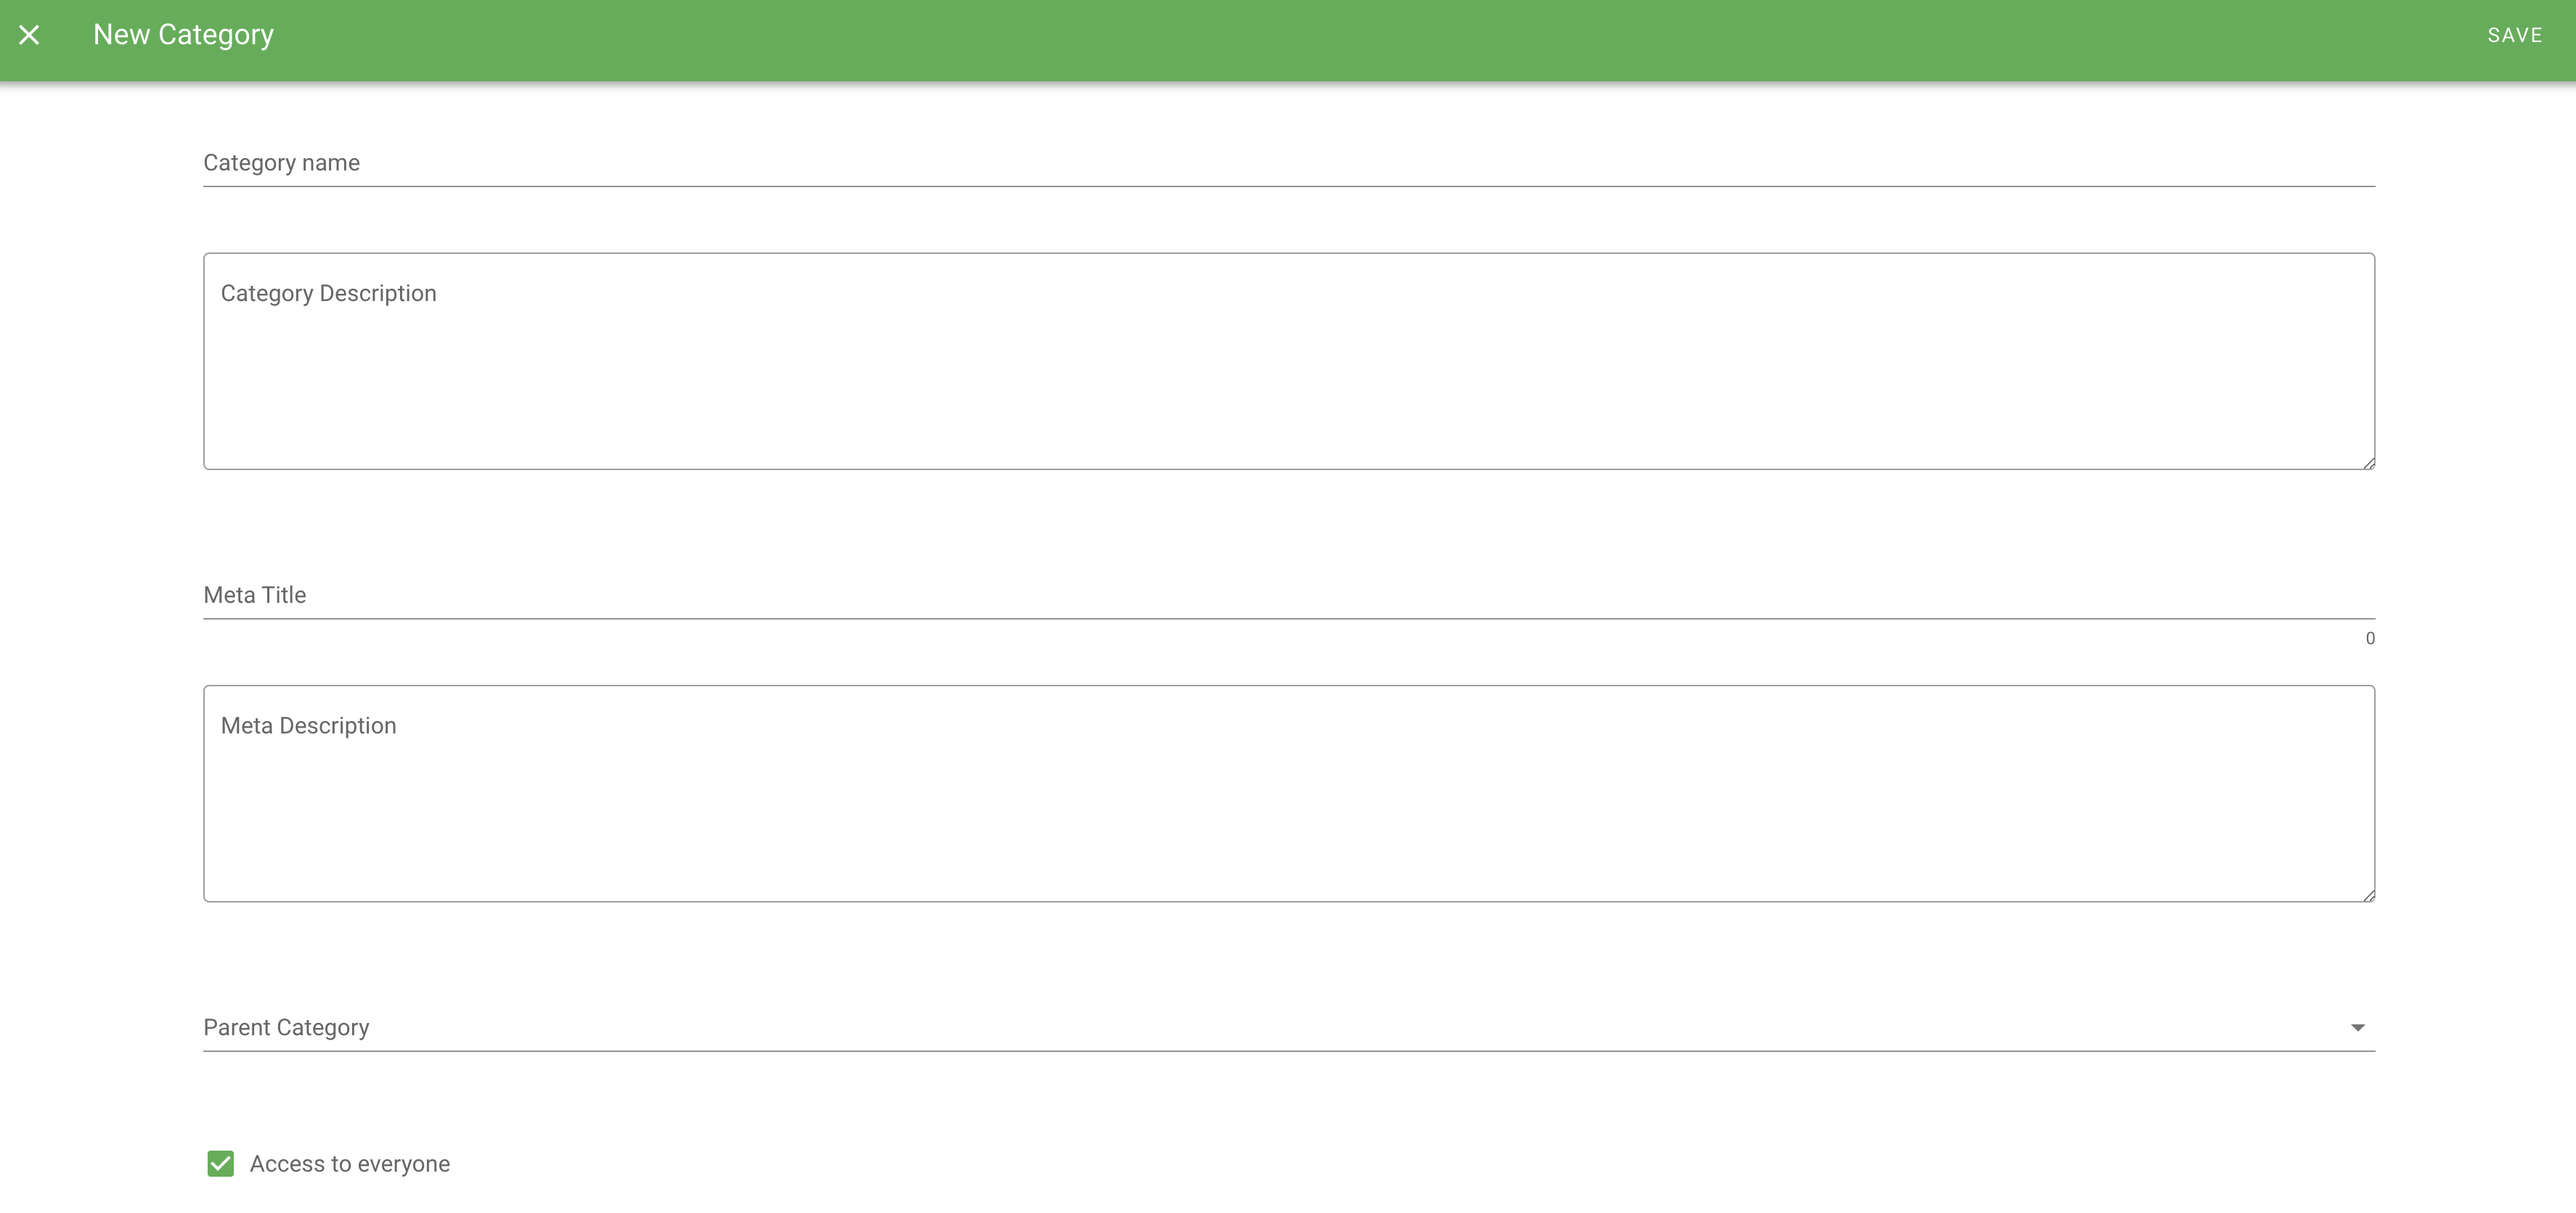
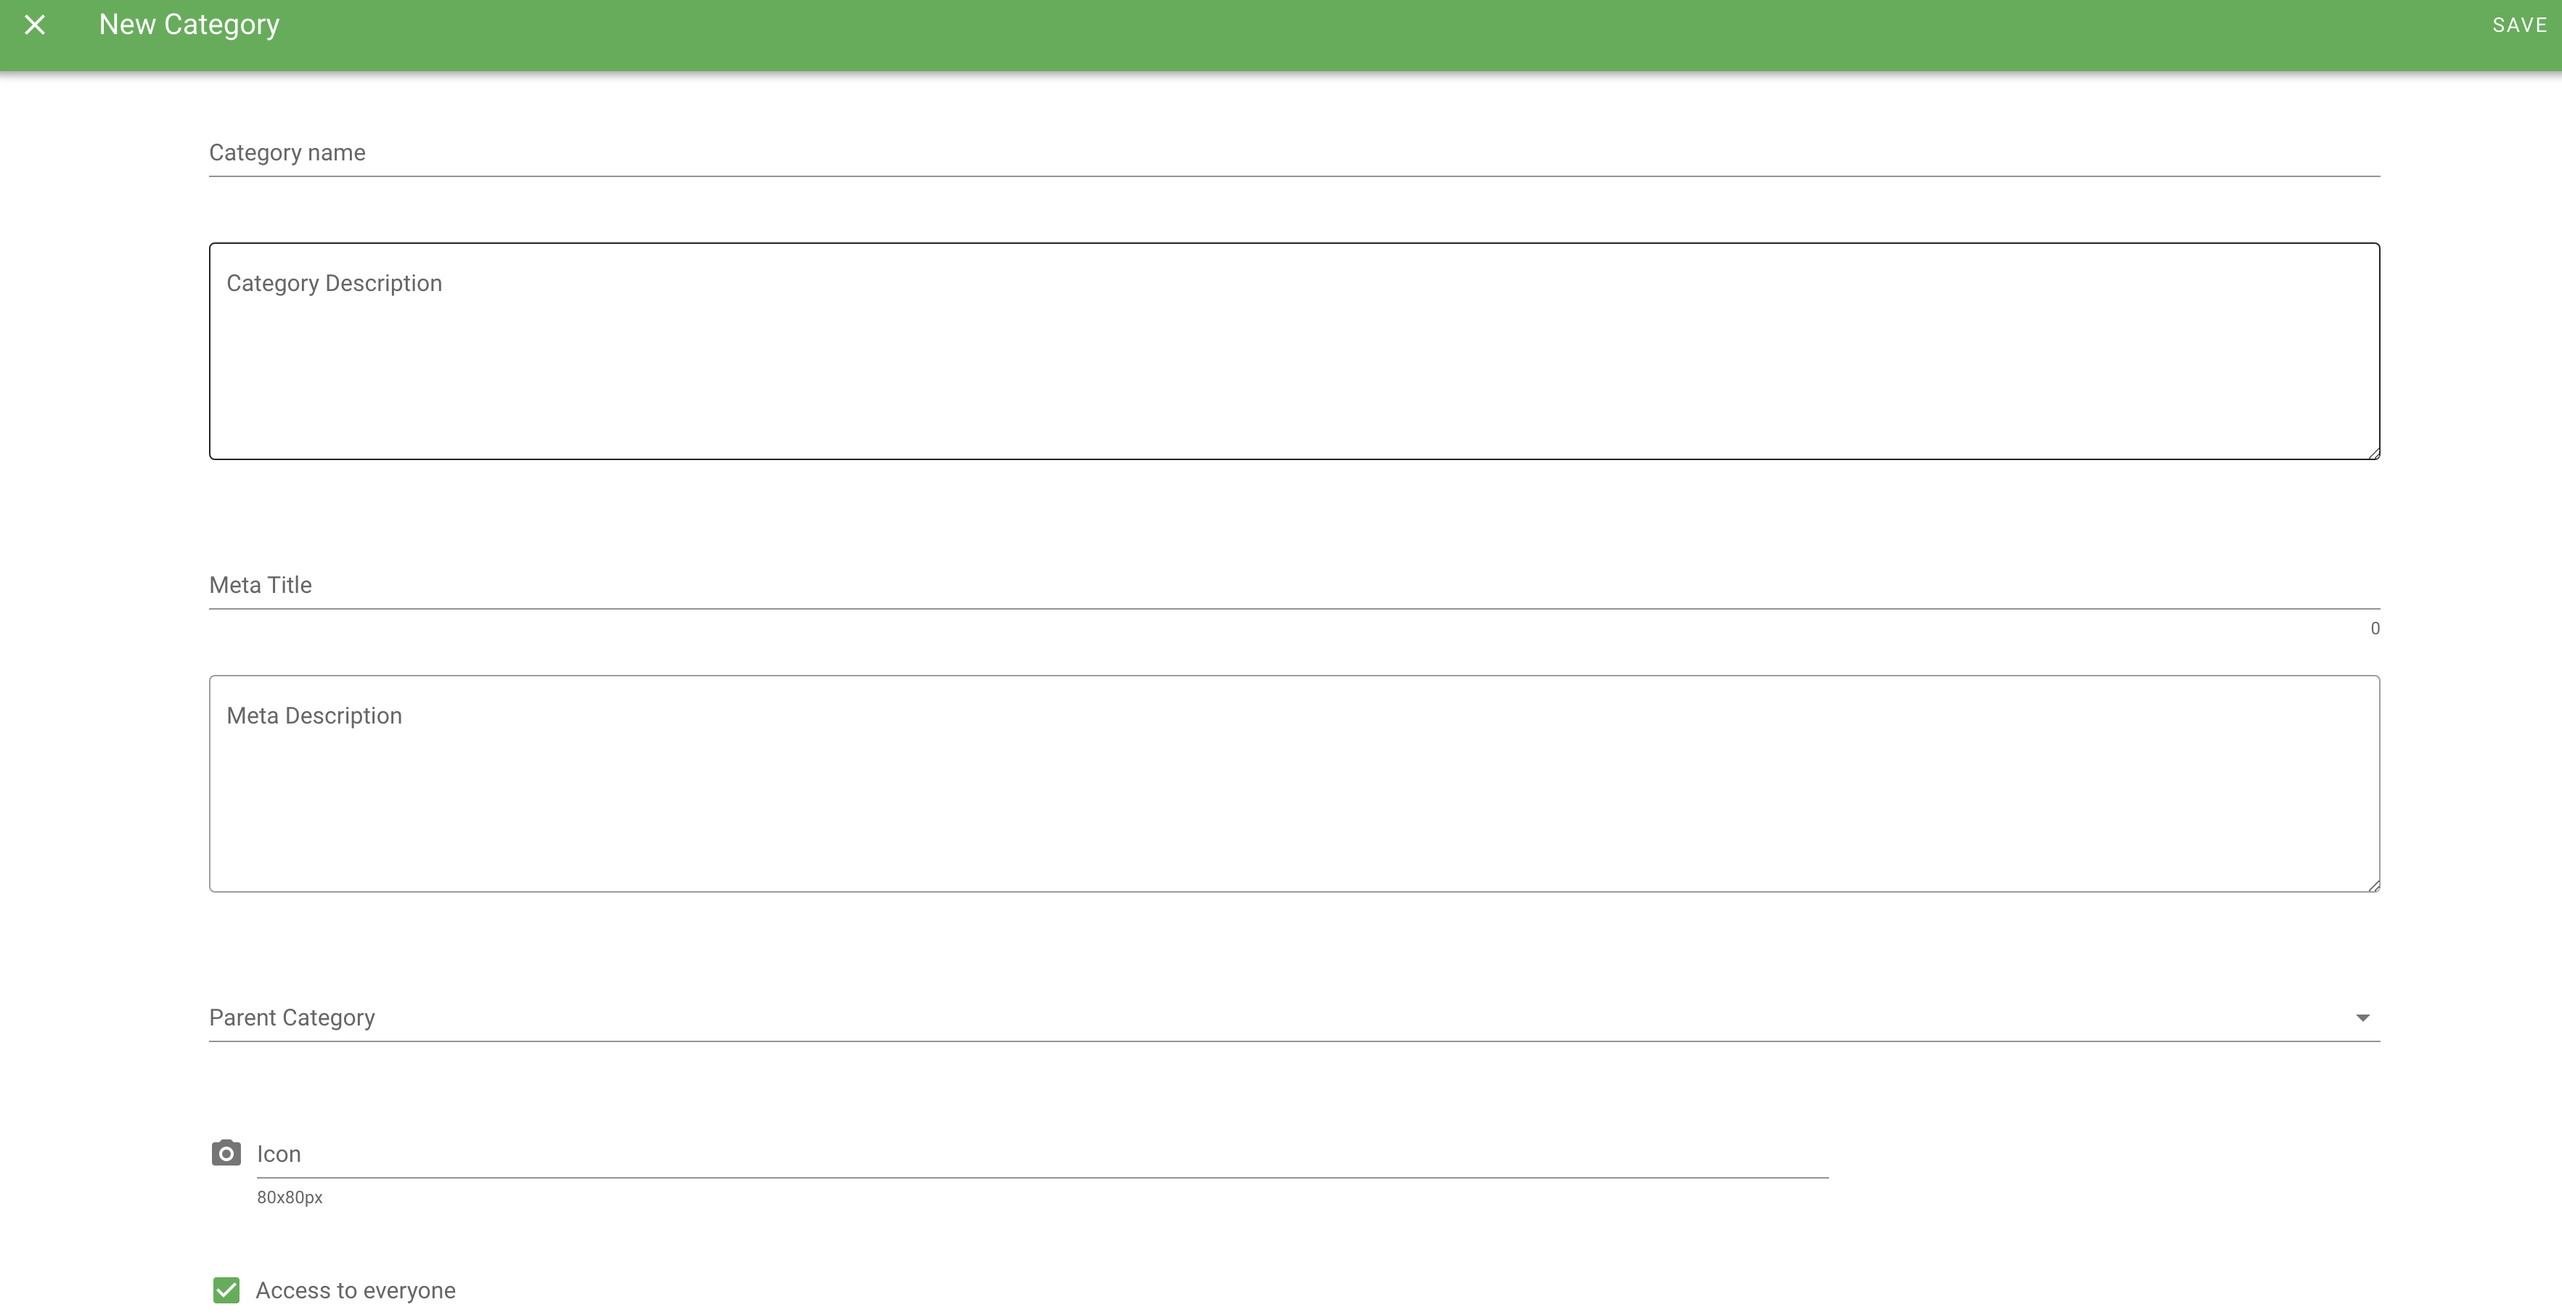
Added text in pages

diff --git a/docs/admin/categories.md b/docs/admin/categories.md
@@ -20,6 +20,7 @@ To create a category, click the "New Category" and fill out form:
 - Meta title. It appears in the browser's title bar and is also used by search engines as the title of a webpage's search result.
 - Meta description. It appears in the search engine results pages (SERPs) below the title tag and the URL of the page.The purpose of a meta description is to provide a concise and informative preview of what the user can expect to find on the page.
 - Parent category. We create the main category, which means we do not specify anything.
+- Icon. Uploading an icon for a category. Icon size should be 80px x 80px.
 
 We do not touch the "Access to everyone" checkbox if we want all users to see it.
 
@@ -36,6 +37,7 @@ To create a category, click the "New Category" and fill out form:
 - Meta title. It appears in the browser's title bar and is also used by search engines as the title of a webpage's search result.
 - Meta description. It appears in the search engine results pages (SERPs) below the title tag and the URL of the page.The purpose of a meta description is to provide a concise and informative preview of what the user can expect to find on the page.
 - Parent category. Choose parent category for subcategories.
+- Icon. Uploading an icon for a category. Icon size should be 80px x 80px.
 
 We do not touch the "Access to everyone" checkbox if we want all users to see it.
 

diff --git a/docs/admin/translation.md b/docs/admin/translation.md
@@ -2,3 +2,55 @@
 sidebar_position: 18
 slug: "/admin/translation"
 ---
+
+# Translation
+
+You can change the text on the site to make it more understandable and user-friendly.
+
+![translation](/img/translation.png)
+
+- There were no results for your search
+
+![translation2](/img/translation2.png)
+
+- Account
+
+![translation3](/img/translation3.png)
+
+- Follow us
+
+![translation4](/img/translation4.png)
+
+- About us
+
+![translation5](/img/translation5.png)
+
+- Nice to see you again
+
+![translation3](/img/translation3.png)
+
+- Menu
+
+![translation6](/img/translation6.png)
+
+- Search
+
+![translation7](/img/translation7.png)
+
+- Important topic
+
+![translation8](/img/translation8.png)
+
+- Topic closed
+
+![translation8](/img/translation8.png)
+
+- Contact us
+
+![translation5](/img/translation5.png)
+
+- Page not found
+
+![translation9](/img/translation9.png)
+
+- Error happened

diff --git a/docs/admin/roles.md b/docs/admin/roles.md
@@ -21,6 +21,7 @@ You need to fill out:
 
 - Name for role
 - Select the permissions that will be available for this role.
+- Icon. Uploading an icon. Icon size should be 80px x 80px.
 
 Click "Save" in the upper right corner.
 
